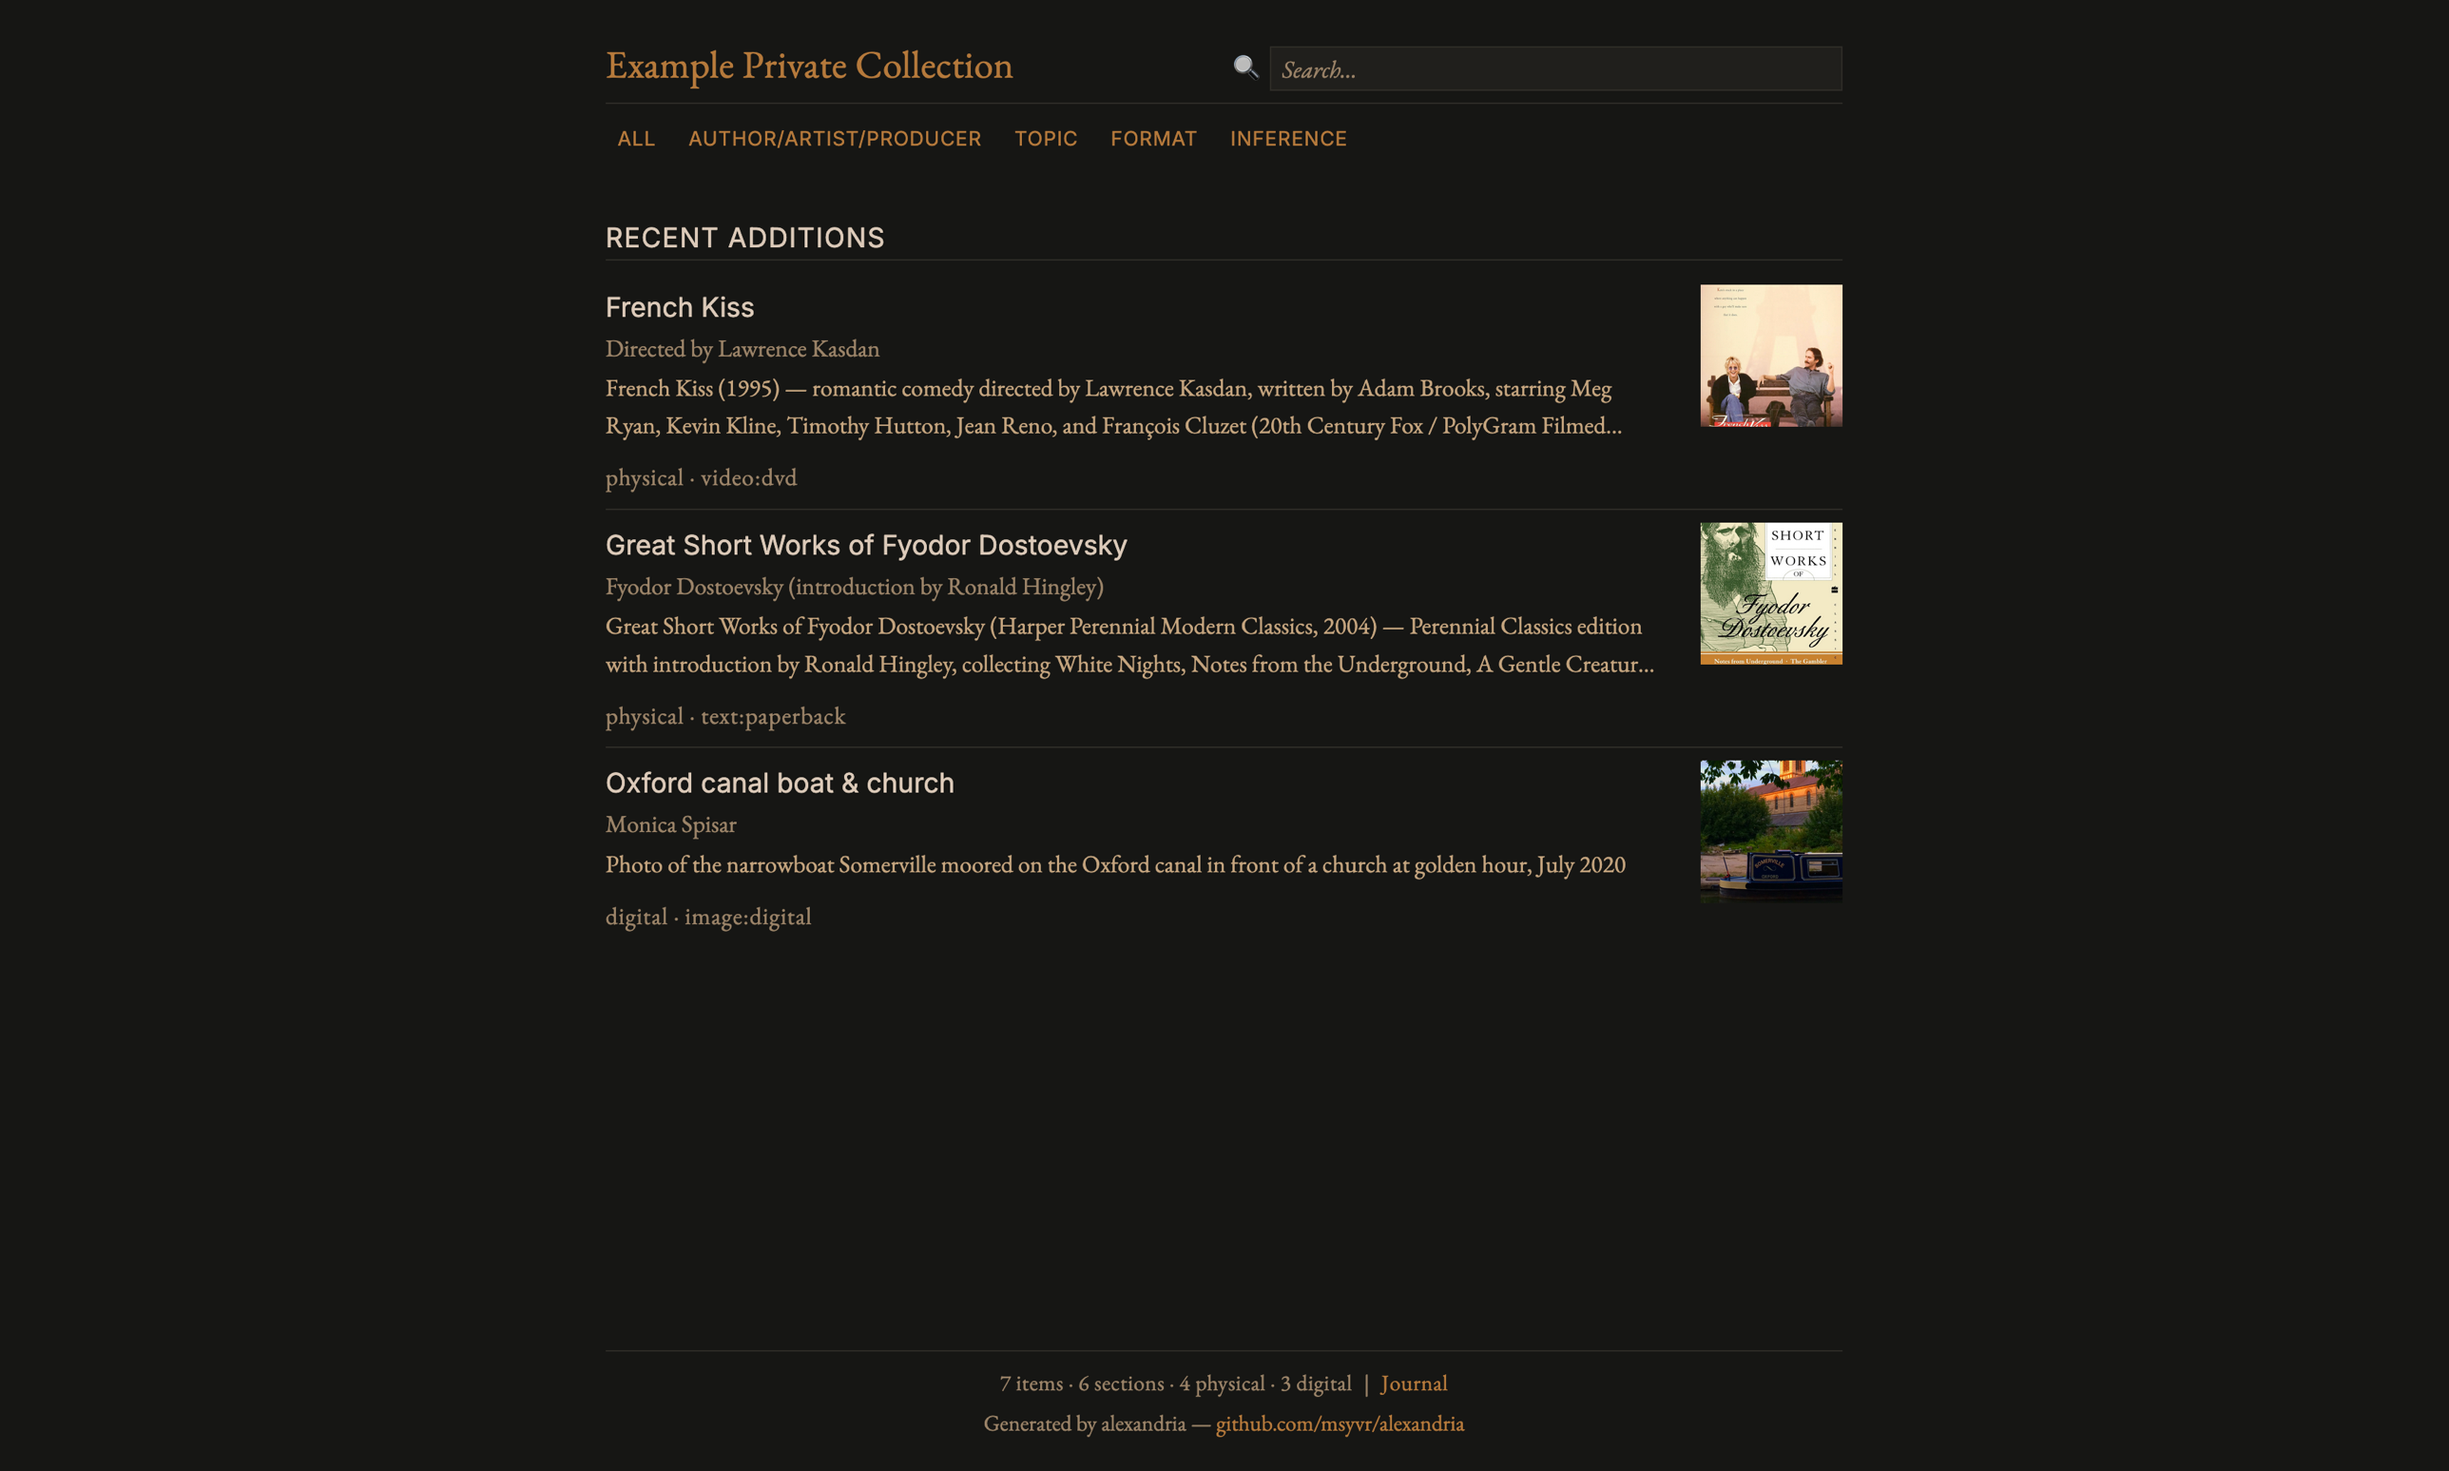
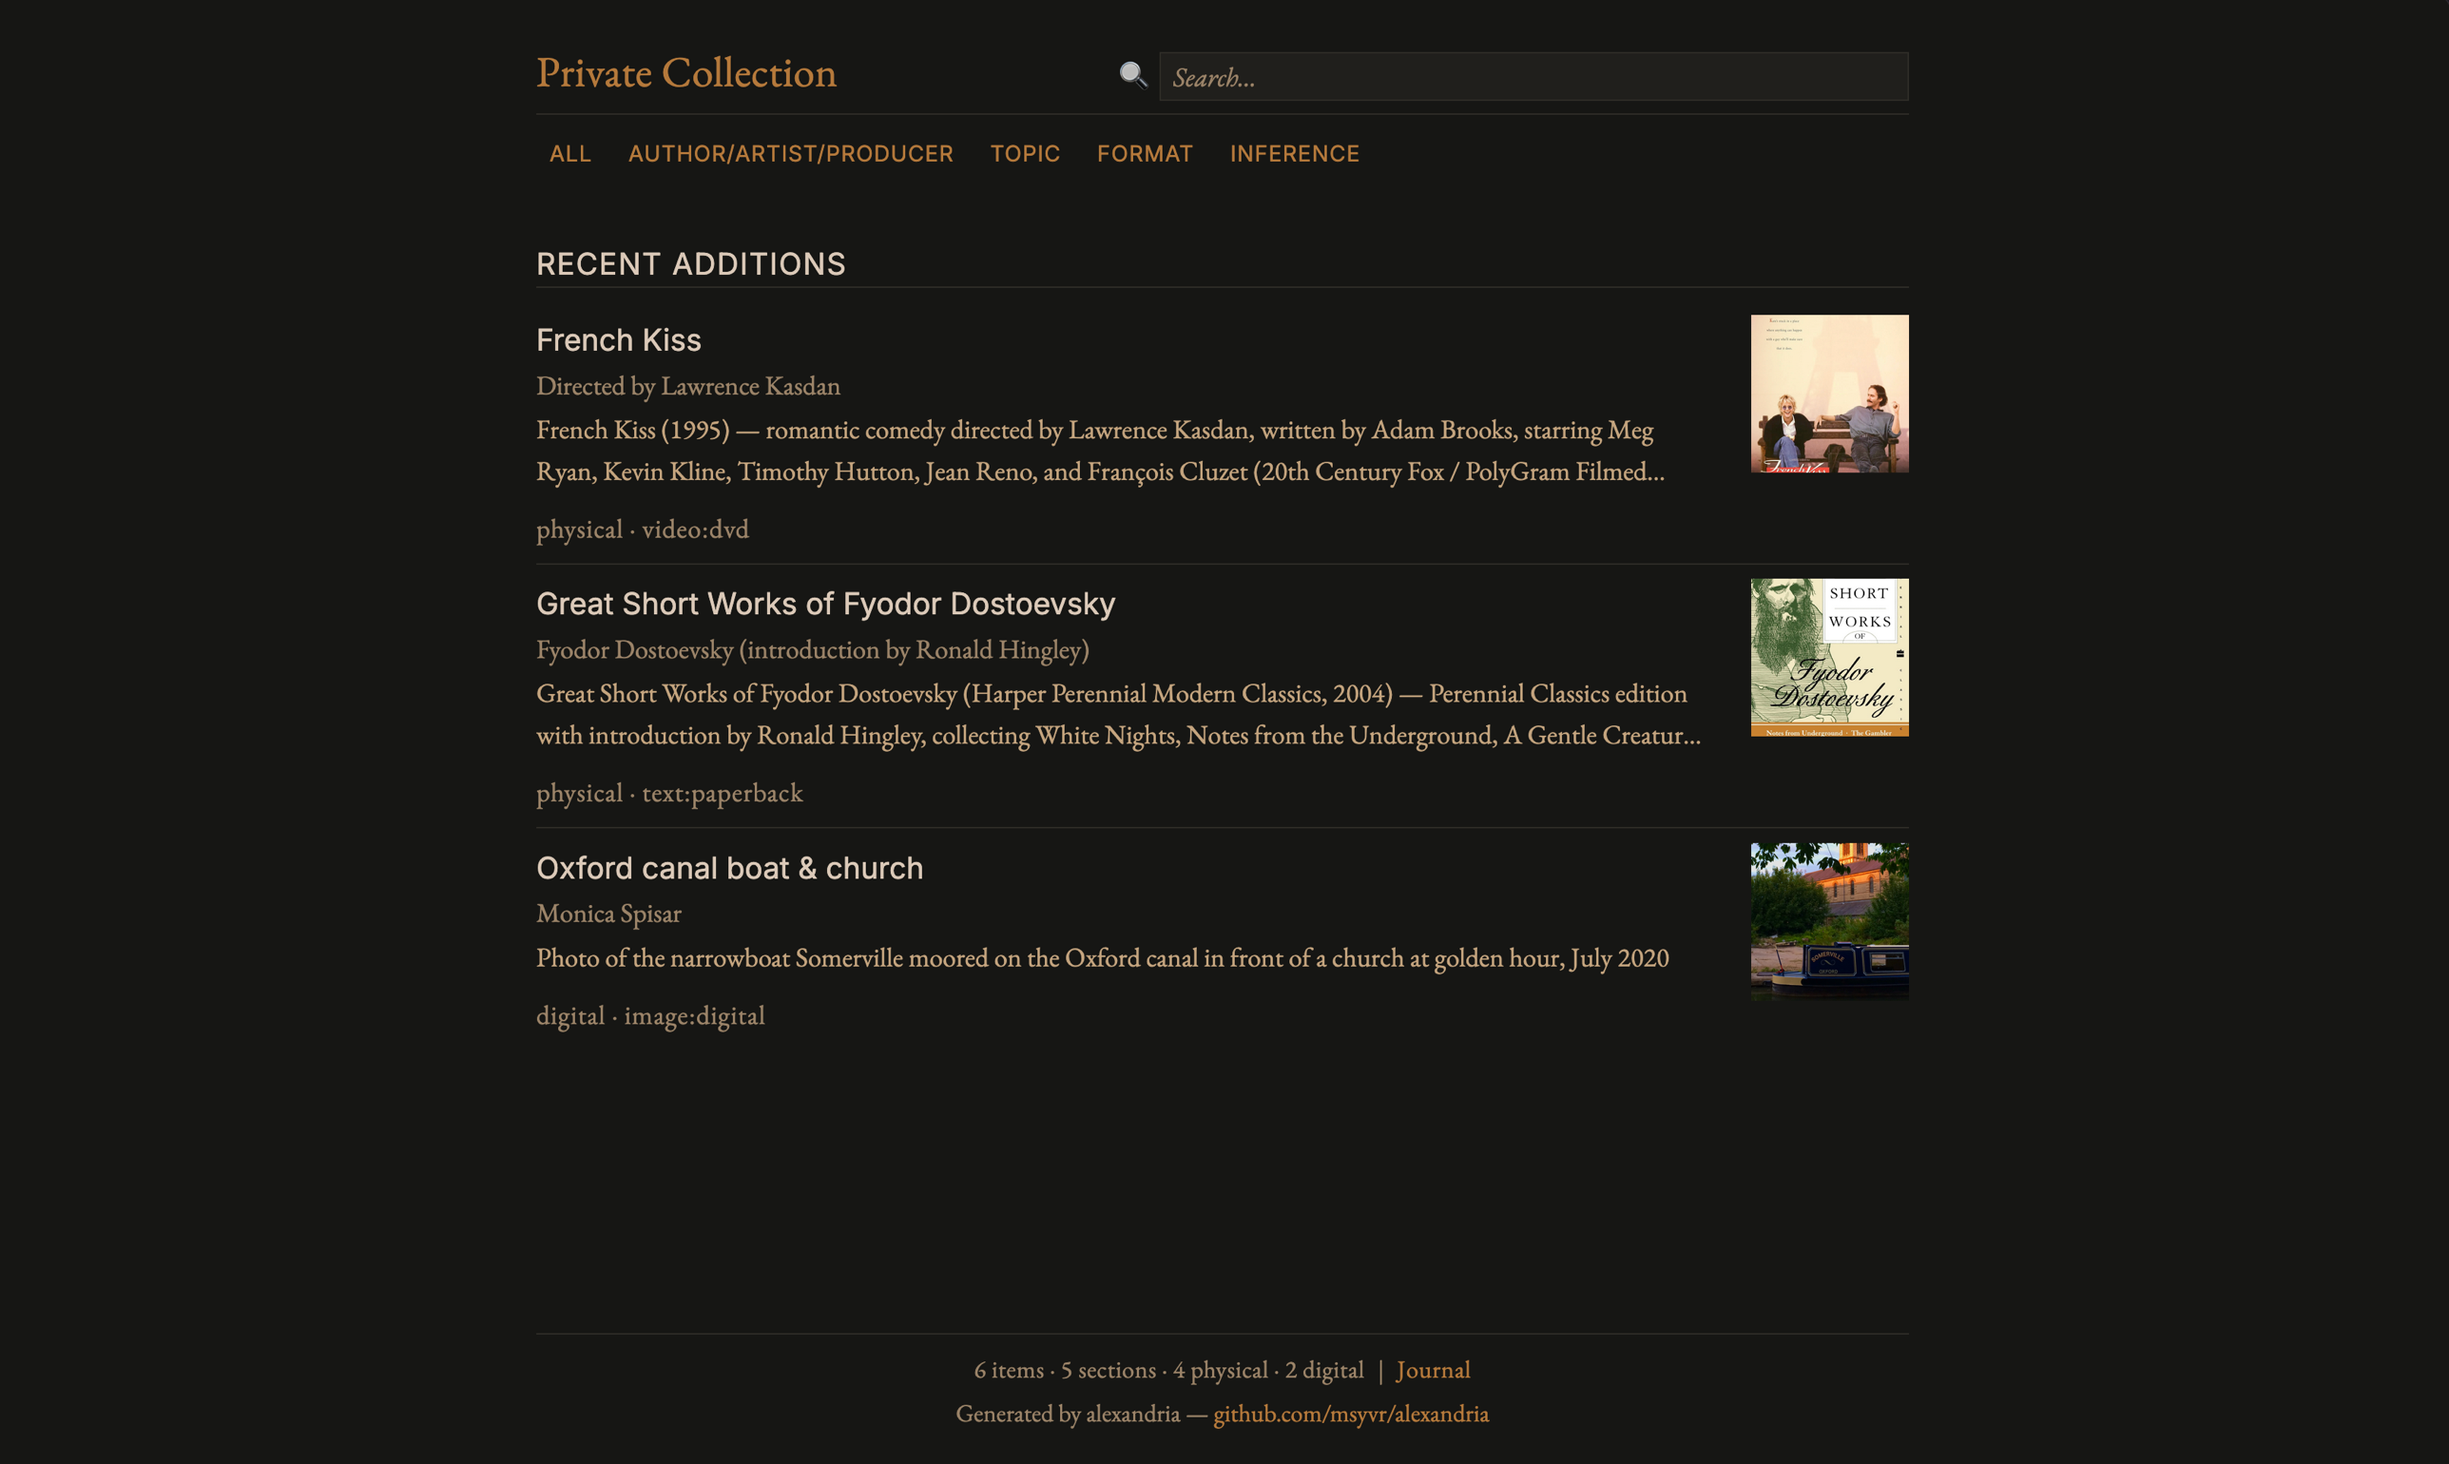
Fixes and polish: unmanage CLAUDE.md, restore labels, tune styling
- tools/managed-paths.yaml: remove CLAUDE.md from the upstream-managed
  set. Collections have their own CLAUDE.md written by the build skill
  that is fundamentally different from the alexandria repo's CLAUDE.md;
  copying the repo's over the collection's on update broke Claude
  sessions opened inside the collection (skills refused to run because
  the repo CLAUDE.md guardrails against skill invocation in the repo
  itself).

- tools/update_collection.py: add missing shutil import (the auto-commit
  code path needed it), and backfill UNCHANGED files into the manifest
  on first run when installed_sha is None — ensures collections that
  ran the update before having a manifest end up with a complete one.

- tools/_wiki_templates.py: restore "All {major}" label on subsection
  toggles in by_section_index and by_medium_format_index. Commit
  e2cae0d had made this change; commit 72a8700 ("Shift all markdown
  headings one level deeper") reverted it as an unintended side effect
  of a script-driven transform.

- tools/_wiki_style.css: root html font-size 90% -> 100% (matches the
  browser default; ~10% larger than before). Consolidate the
  .search-item mark dark-theme override by using
  color-mix(in srgb, var(--accent) 22%, transparent); the mark now
  picks up the theme's accent automatically, so only one
  prefers-color-scheme block remains in the stylesheet.

- docs/guides/fonts-and-typography.md: update the "tweak rather than
[…]

diff --git a/tools/_wiki_style.css b/tools/_wiki_style.css
@@ -72,7 +72,7 @@
   box-sizing: border-box;
 }
 html {
-  font-size: 90%;
+  font-size: 100%;
 }
 
 body {
@@ -815,16 +815,10 @@ blockquote.user-notes {
 }
 
 .search-item mark {
-  background: rgba(139, 105, 20, 0.2);
+  background: color-mix(in srgb, var(--accent) 22%, transparent);
   color: inherit;
   padding: 0;
   border-radius: 1px;
-}
-
-@media (prefers-color-scheme: dark) {
-  .search-item mark {
-    background: rgba(196, 160, 80, 0.25);
-  }
 }
 
 /* Collection journal */

diff --git a/tools/update_collection.py b/tools/update_collection.py
@@ -25,6 +25,7 @@ import datetime
 import difflib
 import hashlib
 import os
+import shutil
 import subprocess
 import sys
 from pathlib import Path
@@ -584,6 +585,16 @@ def run_update(collection: Path, repo: Path, dry_run: bool) -> int:
     preserved = [(p, s, i) for p, s, i in classifications if s == "LOCAL_ONLY"]
     unchanged = [(p, s, i) for p, s, i in classifications if s == "UNCHANGED"]
 
+    # Backfill UNCHANGED files into the manifest if they aren't recorded yet.
+    # Happens on the first update against a collection that had no prior
+    # manifest — we want the manifest to end up authoritative for what's
+    # installed, not just for what this run touched.
+    unchanged_to_record = [
+        (p, i)
+        for p, _, i in unchanged
+        if i["installed_sha"] is None and not dry_run
+    ]
+
     # Dry-run: report and exit
     if dry_run:
         print("\nDry run — no changes will be made.\n")
@@ -725,6 +736,16 @@ def run_update(collection: Path, repo: Path, dry_run: bool) -> int:
     removed_upstream = handle_removed_files(
         collection, manifest, managed_set, get_backup_dir
     )
+
+    # Backfill UNCHANGED files that weren't previously tracked. Uses the
+    # local sha (which equals upstream sha in this state) and the current
+    # upstream commit — these files match what's in the repo right now.
+    for rel, info in unchanged_to_record:
+        manifest.setdefault("files", {})[str(rel)] = {
+            "sha256": info["local_sha"],
+            "installed_at": now,
+            "installed_from_commit": commit,
+        }
 
     # Update manifest metadata and flush
     manifest["schema_version"] = SCHEMA_VERSION

diff --git a/tools/_wiki_templates.py b/tools/_wiki_templates.py
@@ -340,7 +340,7 @@ def by_section_index(library: dict, all_items: list[dict], items_by_section: dic
             f'<small>({group_total})</small></h2>'
             f'<button type="button" class="subsections-toggle" '
             f'aria-expanded="false" aria-controls="{panel_id}" '
-            f'data-major-id="{major_slug}">View all {escape(major)}</button>'
+            f'data-major-id="{major_slug}">All {escape(major)}</button>'
             f'</div>'
             f'<div id="{panel_id}" class="subsections-panel" hidden>'
             f'{table}</div>'
@@ -590,7 +590,7 @@ def by_medium_format_index(library: dict, all_items: list[dict]) -> str:
             f'<small>({active_total})</small></h2>'
             f'<button type="button" class="subsections-toggle" '
             f'aria-expanded="false" aria-controls="{panel_id}" '
-            f'data-major-id="{form}">View all {escape(form_cap)}</button>'
+            f'data-major-id="{form}">All {escape(form_cap)}</button>'
             f'</div>'
             f'<div id="{panel_id}" class="subsections-panel" hidden>'
             f'{table}</div>'

diff --git a/docs/guides/fonts-and-typography.md b/docs/guides/fonts-and-typography.md
@@ -89,9 +89,9 @@ changes.
 Each `font-size`, `letter-spacing`, and `font-weight` in
 `tools/_wiki_style.css` is a one-line edit. Anchor sizes in `em` (relative
 to the root `html` font-size) so a single change to `html { font-size: … }`
-scales the whole wiki proportionally. The root size is `90%` by default,
-meaning 14.4 px if your browser default is 16 px — bumping it to `100%`
-makes everything ~10% larger.
+scales the whole wiki proportionally. The root size is `100%` by default
+(matching the browser default — typically 16 px) — bumping it to e.g.
+`90%` makes everything about 10% smaller, `110%` about 10% larger.
 
 ### Why these two families specifically
 
